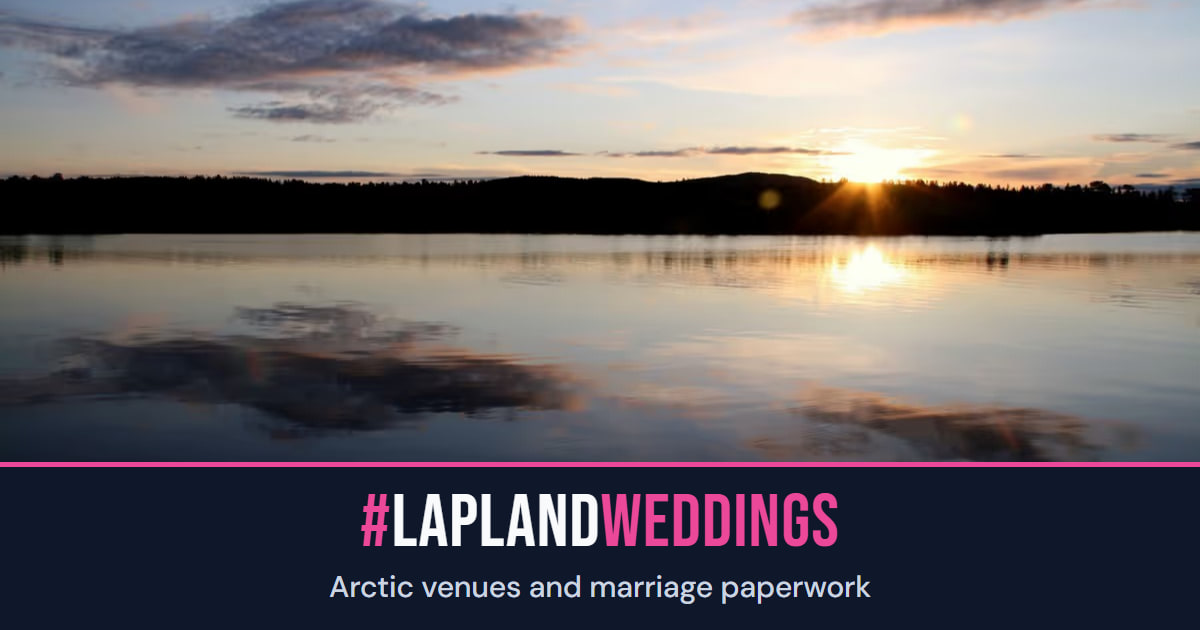
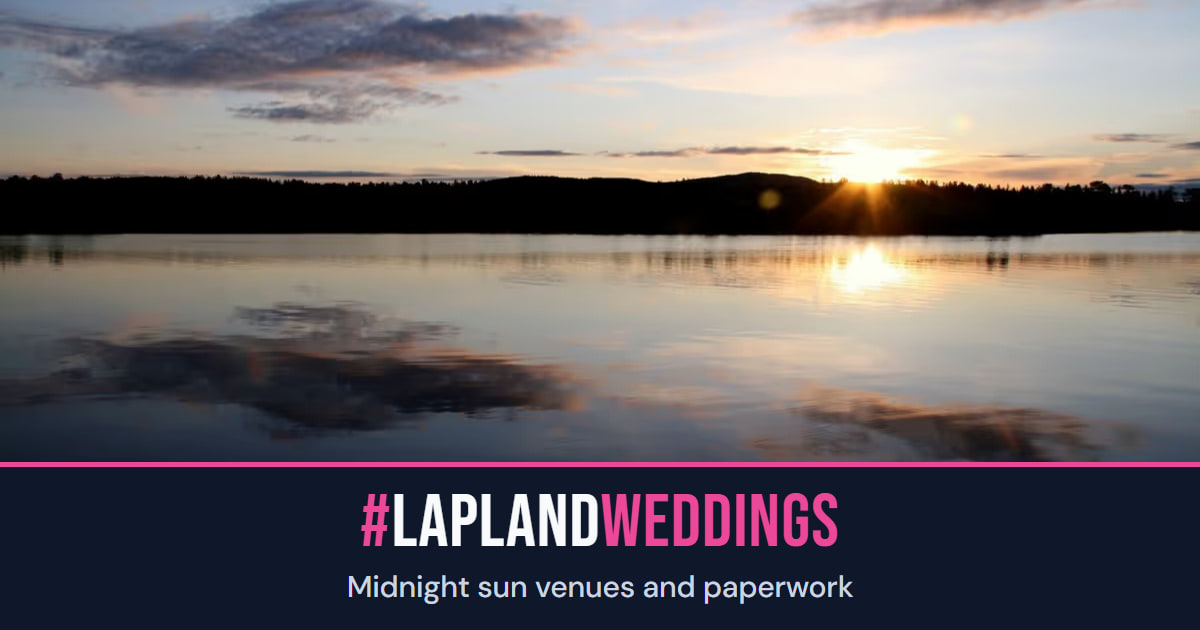
Jakokortti: kauden oma kuva JA kauden oma teksti
Vesa 21.9.2026: "eiko naihinkin pida olla saanto etta kesalla jaetaan
kesakuva ja teksti liittyy kesaan? nyt ouhut kesakuvassa aurorasta?"

Kortin kuva vaihtui kauden mukaan jo, teksti ei. Rekisterissa on nyt
taglineKesa ja taglineTalvi, ja kortit on tehty uudelleen molemmille
kausille. OG_VERSION nostettu, jotta uusi kortti nakyy jaossa heti eika
vasta kun some-palvelun valimuisti vanhenee.

Changed region(s): [[0.2775, 0.9048, 0.74, 0.9651]]

diff --git a/index.html b/index.html
@@ -176,16 +176,16 @@
     <!-- GetYourGuide Integration Analyzer (required for affiliate attribution) -->
     <script async defer src="https://widget.getyourguide.com/dist/pa.umd.production.min.js" data-gyg-partner-id="VRMKD7N"></script>
       <!-- Open Graph image (1200×630 JPEG) -->
-    <meta property="og:image" content="https://laplandweddings.online/og.jpg?v=20260905" />
-    <meta property="og:image:secure_url" content="https://laplandweddings.online/og.jpg?v=20260905" />
+    <meta property="og:image" content="https://laplandweddings.online/og.jpg?v=20260921" />
+    <meta property="og:image:secure_url" content="https://laplandweddings.online/og.jpg?v=20260921" />
     <meta property="og:image:type" content="image/jpeg" />
     <meta property="og:image:width" content="1200" />
     <meta property="og:image:height" content="630" />
-    <meta property="og:image:alt" content="Summer wedding setting by a calm Lapland lake at golden midnight-sun hour. #LAPLANDWEDDINGS" />
+    <meta property="og:image:alt" content="The midnight sun over Lake Inari around midsummer. #LAPLANDWEDDINGS" />
     <!-- Twitter card -->
     <meta name="twitter:card" content="summary_large_image" />
-    <meta name="twitter:image" content="https://laplandweddings.online/og.jpg?v=20260905" />
-    <meta name="twitter:image:alt" content="Summer wedding setting by a calm Lapland lake at golden midnight-sun hour. #LAPLANDWEDDINGS" />
+    <meta name="twitter:image" content="https://laplandweddings.online/og.jpg?v=20260921" />
+    <meta name="twitter:image:alt" content="The midnight sun over Lake Inari around midsummer. #LAPLANDWEDDINGS" />
       <!-- Favicon stack (LV ecosystem unified design) -->
     <link rel="icon" href="/favicon.svg?v=20260626b" type="image/svg+xml" />
     <link rel="alternate icon" href="/favicon.ico?v=20260626b" sizes="32x32" type="image/png" />
